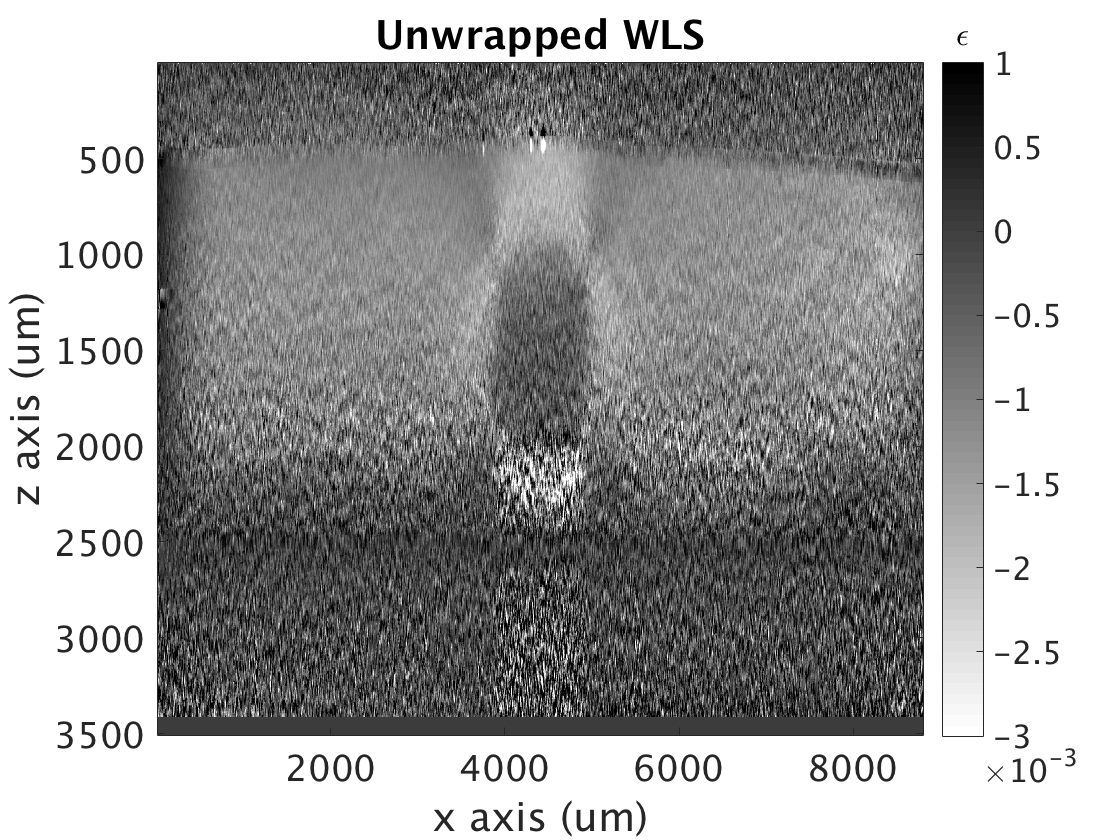
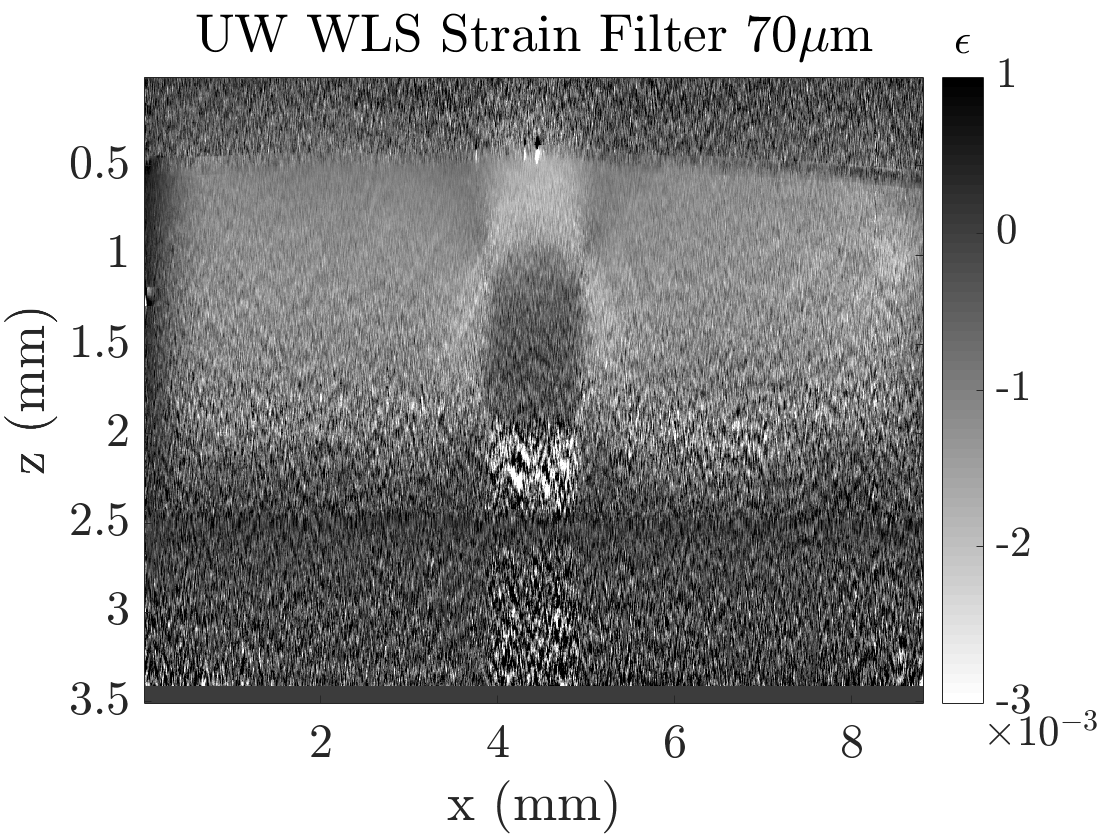
Split conclusion from discussion. Discussion needs work

diff --git a/Results.tex b/Results.tex
@@ -1,6 +1,5 @@
 \chapter{Results}\label{results}
 
-
 \section{Data Acquisition}\label{data}
 
 \begin{figure}
@@ -20,7 +19,7 @@
 
 To better quantify the image quality, an idealised silicone sample was imaged, to approximate breast tissue, and the strain estimated. This phantom consisted of a bulk, softer silicone material (with a Young's modulus of 6.4kPa) within which was a stiff, rectangular inclusion (Young's modulus of 100kPa) \cite{hepburn_improving_2017}, to which optical scatterers were added to enhance the \ac{oct} signal. The phantom was created by a previous Master's student, and was imaged using a desktop \ac{oce} system, with a system wavelength of $1300nm$. The imaged area, shown in \autoref{oct_image}, was divided into 2000 A-scans per each B-scan, over a length in x of $4.4\mu m$), and a total of 6817 B-scans were acquired, over the same length in y.
 
-The complex \ac{oct} C-scan was initially processed from the raw spectral data produced by the Fourier-domain \ac{oct} system, to produce the complex \ac{oct} signal values, with associated optical amplitudes and random phase. From here, as described briefly in \autoref{compression_oce}, the difference in phase is calculated between loaded and unloaded B-scans, and averaged over 100 B-scans. The strain estimation algorithms described following utilise this calculated averaged phase difference as the beginning step of the processing pipeline, and assume that the phase difference data is already loaded into memory.
+The complex \ac{oct} C-scan was initially processed from the raw spectral data produced by the Fourier-domain \ac{oct} system, to produce the complex \ac{oct} signal values, with associated optical amplitudes and random phase. From here, as described briefly in \autoref{compression_oce}, the difference in phase is calculated between loaded and unloaded B-scans, and averaged over 50 B-scan pairs. The strain estimation algorithms described following utilise this calculated averaged phase difference as the beginning step of the processing pipeline, and assume that the phase difference data is already loaded into memory.
 
 \section{Strain Estimation Algorithms}\label{algorithms}
 
@@ -29,12 +28,11 @@ A total of six different strain estimation algorithms were implemented and teste
 The functions worked by using the complex phase difference C-scan as an input, as well as the specifications for the fit (axial) and lateral resolutions of the system. The fit resolution of the system determined the fit window for the \ac{wls} and \ac{sg} based strain estimation techniques, and the axial Gaussian $\sigma$ value for the \ac{fd} based techniques. The lateral resolution determined to what extent the strain images were laterally averaged by a Gaussian smoothing filter (for reasons discussed in the later section 4.3). If a lateral resolution of 0 was specified, no lateral smoothing was performed. 
 
 \subsection{\ac{wls} with Unwrapped Phase}
-The \ac{uwwls} algorithm unwraps the phase by reading in the entire volume and saves the unwrapped phase data to file. In a sequential loop over each B-scan, wrapped in a Matlab parfor parallel, the process reads in the complex phase and unwrapped phase for each B-scan. If lateral smoothing has been specified, it smooths the unwrapped phase using unweighted Gaussian smoothing by convoluting the unwrapped phase with the 1D lateral filter. A sequential looping is then performed over each A-scan and all fit segments within the given B-scan, which calculates the \ac{wls} estimate of strain using summations and the weights from the complex phase data.
+The \ac{uwwls} algorithm unwraps the phase by reading in the entire volume and saves the unwrapped phase data to file. In a sequential loop over each B-scan the process reads in the complex phase and unwrapped phase for each B-scan. If lateral smoothing has been specified, it smooths the unwrapped phase using unweighted Gaussian smoothing by convoluting the unwrapped phase with the 1D lateral filter. A sequential looping is then performed over each A-scan and all fit segments within the given B-scan, which calculates the \ac{wls} estimate of strain using summations and the weights from the complex phase data.
 
-\subsection{\ac{sg} Filtering on Unwrapped Phase}
-The \ac{uwsg} unwraps the phase by the same process specified above, which requires a read from file of the unwrapped phase for each B-scan. If lateral smoothing required, the unwrapped phase is similarly smoothed via convolution with an unweighted Gaussian smoothing filter. To estimate the strain, this smoothed unwrapped phase data is convolved with the analytically derived \ac{sg} filter in a single action of the entire B-scan.
+\afterpage{
 
-\begin{figure}[th!]
+\begin{figure}[h!]
 \begin{tikzpicture}[node distance=2cm, remember picture]
 	\centering
 	\node [anchor=north] at (0,0) (input) [io] {INPUT: $\Delta\phi_i$};
@@ -131,8 +129,14 @@ The \ac{uwsg} unwraps the phase by the same process specified above, which requi
 \label{flowchart}
 \end{figure}
 
+\clearpage
+}
+
+\subsection{\ac{sg} Filtering on Unwrapped Phase}
+The \ac{uwsg} unwraps the phase by the same process specified above, which requires a read from file of the unwrapped phase for each B-scan. If lateral smoothing required, the unwrapped phase is similarly smoothed via convolution with an unweighted Gaussian smoothing filter. To estimate the strain, this smoothed unwrapped phase data is convolved with the analytically derived \ac{sg} filter in a single action of the entire B-scan.
+   
 \subsection{\ac{sg} Filtering on Offset Phase}
-In order to correct for phase unwrapping, the \ac{posg} function reads in the complex phase for each B-scan (in a parallel Matlab parfor loop) and loops over all fit segments within the B-scan, taking a matrix of values across all A-scans for the given depths. Using Matlab's inbuilt bsxfun operator, an averaged complex phase value for each fit segment is calculated and divided (corresponding to subtraction of the phase) to move the phase values into an unwrapped region. The \ac{sg} filter, which was pre-calculated using the analytical solution, is then convolved with the matrix in the axial direction to produce the strain estimation values at that given depth. 
+In order to correct for phase unwrapping, the \ac{posg} function reads in the complex phase for each B-scan and loops over all fit segments within the B-scan, taking a matrix of values across all A-scans for the given depths. An averaged complex phase value for each fit segment is calculated and divided (corresponding to subtraction of the phase) to move the phase values into an unwrapped region. The \ac{sg} filter, which was pre-calculated using the analytical solution, is then convolved with the matrix in the axial direction to produce the strain estimation values at that given depth. 
 
 \subsection{\ac{fd} on Weighted Smoothing of Phase Difference}
 The \ac{wfd} smooths complex weighted phase difference that acts as the function's input using an axial Gaussian filter dependent on the fit resolution supplied (and a lateral filter if specified). For strain estimation, \ac{fd} is performed using bsxfun on the complex phase data (in order to prevent the introduction of  wrapping artefacts), by dividing one pixel by the conjugate of the previous pixel in order to subtract the phase values. This estimate of the spatial derivative of the phase difference is then converted into strain values.
@@ -141,44 +145,55 @@ The \ac{wfd} smooths complex weighted phase difference that acts as the function
 This \ac{uwfd} algorithm works almost identically to the one described in the previous section, except that prior to using a Gaussian smoothing filter on the complex phase data, the amplitude is normalised to 1 for all phase difference values, effectively removing the optical weighting that comes from the OCT signal. From here the \ac{fd} is calculated, and from this the strain. 
 
 \subsection{Pre-Filtered Phase Difference with Smoothed \ac{fd} Strain}
-The \ac{pffd} algorithm was implemented as an effort to remove 'ripples' introduced by high intensity pixels in the finite difference with weighted smoothing, which will be discussed later in the results (see \autoref{qualitative1}). Using the weighted complex phase difference data, a small 2D Gaussian filter is applied to smooth out high intensity 'speckle' pixels. This pre-filter is set at $20 \mu m$ resolution, approximately on the order of the speckle size. This action aims to counter the disproportionate influence of high intensity pixels. From here, the strain is estimated using \ac{fd}, and the resulting strain is smoothed using a 2D Gaussian filter to match the required strain and lateral smoothing filter resolution values. Since the pre-filter contributes to the fit and lateral resolutions, for any given fit resolution $\text{FR}_{total}$ and lateral resolution $\text{LR}_{total}$ supplied to the function as input parameters, the resulting Gaussian smoothing resolutions must take into account the contribution from the pre-filter as in \autoref{prefilter_res_FR} and \autoref{prefilter_res_LR} below.
+
+The \ac{pffd} algorithm was implemented as an effort to remove artefacts introduced by high intensity variable pixels in the \ac{wfd}. Using the weighted complex phase difference data, a small 2D Gaussian filter is applied to smooth out high intensity `speckle' pixels. This pre-filter is set at $20 \mu m$ resolution, approximately on the order of a few speckle. 
+This action aims to counter the disproportionate influence of high intensity pixels over their neighbouring pixels, biasing the phase difference values towards them in the Kasai estimate. 
+From here, the strain is estimated using \ac{fd}, and the resulting real strain is smoothed using a 2D Gaussian filter to match the required strain and lateral smoothing filter resolution values. 
+
+The difference between this approach and the previous two \ac{fd} strain filter algorithms is the combination of a small, weighted smoothing filter to perform one operation (smooth out speckle) followed by the unweighted smoothing filter that compliments the derivative estimator.
+
+Since the pre-filter contributes to the fit and lateral resolutions, for any given fit resolution $\text{FR}_{total}$ and lateral resolution $\text{LR}_{total}$ supplied to the function as input parameters, the resulting Gaussian smoothing resolutions must take into account the contribution from the pre-filter:
 
 \begin{equation}
-	\text{FR}_{Gauss} = \sqrt{\text{FR}_{total}^2 - \text{FR}_{pre}^2}
+	\text{Res}_{Gauss} = \sqrt{\text{Res}_{total}^2 - \text{Res}_{pre}^2}
     \label{prefilter_res_FR}
 \end{equation}
 
-\begin{equation}
-    \text{LR}_{Gauss} = \sqrt{\text{LR}_{total}^2 - \text{LR}_{pre}^2}
-    \label{prefilter_res_LR}
-\end{equation}
+%\begin{equation}
+%	\text{FR}_{Gauss} = \sqrt{\text{FR}_{total}^2 - \text{FR}_{pre}^2}
+%    \label{prefilter_res_FR}
+%\end{equation}
 
-In order to maintain consistency between the strain estimation techniques, for the case in which no lateral smoothing is applied for any other algorithms, the pre-filter becomes 1D Gaussian smoothing filter only, so that $\text{LR}_{pre}\rightarrow 0$. 
+%\begin{equation}
+%    \text{LR}_{Gauss} = \sqrt{\text{LR}_{total}^2 - \text{LR}_{pre}^2}
+%    \label{prefilter_res_LR}
+%\end{equation}
 
-The table below, \autoref{strain_methods}, summarises the six strain estimation techniques that have been developed, including the method with which they address the issue of phase unwrapping, and the strain filter they apply.
+In order to maintain consistency between the strain estimation techniques, for the case in which no lateral smoothing is applied for any other algorithms, the pre-filter becomes 1D Gaussian smoothing filter only.
 
-\begin{table}[h!]
+\autoref{strain_methods} summarises the six strain estimation techniques that have been developed, including the method with which they address the issue of phase unwrapping, and the strain filter they apply.
+
+\begin{table}[h]
 	\centering
 	\begin{tabularx}{\textwidth}{YlYY}
 		\toprule
 		Name & Abbreviation & Phase Unwrapping & Strain Filter \\
 		\midrule
-		\ac{wls} with Unwrapped Phase & \ac{uwwls} & Volume unwrapping algorithm & Sequential WLS \\
-		\ac{sg} Filtering on Unwrapped Phase & \ac{uwsg} & Volume unwrapping algorithm & SG filter convolution \\
-		\ac{sg} Filtering on Offset Phase & \ac{posg} & Phase offset & Sequential SG filter convolution \\
-		\ac{fd} on Weighted Smoothing of Phase & \ac{wfd} & None & FD with (weighted) Gaussian smoothing \\
-		\ac{fd} on Unweighted Smoothing of Phase & \ac{uwfd} & None & FD with (unweighted) Gaussian smoothing \\
-		Pre-Filtered Phase with Smoothed \ac{fd} & \ac{pffd} & None & FD with (weighted then unweighted) Gaussian smoothing \\
+		\ac{wls} with Unwrapped Phase & \ac{uwwls} & Volume unwrapping & \ac{wls} \\
+		\ac{sg} Filtering on Unwrapped Phase & \ac{uwsg} & Volume unwrapping & \ac{sg} filter \\
+		\ac{sg} Filtering on Offset Phase & \ac{posg} & Phase offset & \ac{sg} filter \\
+		\ac{fd} on Weighted Smoothing of Phase & \ac{wfd} & None & \ac{fd} with (weighted) Gaussian smoothing \\
+		\ac{fd} on Unweighted Smoothing of Phase & \ac{uwfd} & None & \ac{fd} with (unweighted) Gaussian smoothing \\
+		Pre-Filtered Phase with Smoothed \ac{fd} & \ac{pffd} & None & Pre-filtering \& smoothing of \ac{fd} \\
 		\bottomrule
 	\end{tabularx}
 	\caption{Description of the six strain estimation techniques investigated, including their abbreviation, and their method of tackling a) phase unwrapping and b) strain filtering.}
 	\label{strain_methods}
-
 \end{table}
 
 \section{Phantom Strain Elastogram Results}\label{phantom_results}
 
-\subsection{Qualitative Comparison}{qualitative1}
+\subsection{Qualitative Comparison}\label{qualitative1}
 
 \begin{figure}[b!]
 	\centering
@@ -208,16 +223,17 @@ The table below, \autoref{strain_methods}, summarises the six strain estimation 
     	\centering
         \includegraphics[width=\textwidth]{figures/fdsm_fr70_lr0.png}
     \end{subfigure}
-    \caption{Strain B-scans taken from the centre of the phantom for the six strain estimation techniques discussed above. The strain values shown are windowed between -3 and 1 milli-strain.}
+	\caption{Strain B-scans taken from the centre of the phantom for the six strain estimation techniques discussed above, using a strain filter \ac{fwhm} of 70$\mu$m. The strain values shown are windowed between -3 and 1 milli-strain.}
     \label{bscan_images_1}	
 \end{figure}
 
-\autoref{bscan_images_1} shows the resulting B-scan strain images, taken from the centre of the phantom, for the six different strain estimation techniques described above. Note that negative strain corresponds to compressive force, that is a displacement downwards. The fact that there exist positive strain values suggests that our assumption of uniaxial compression is invalid, as stiffer regions are pushing the softer bulk laterally and upwards. It can seen in all images that the stiff inclusion shows less strain than the softer surrounding bulk, as expected. There are similar 'halo' effects, caused by the stiff inclusion taking more of the compressive force than the soft bulk immediately next to it, in all images. The area under the hard inclusion is characterised by low \ac{oct} signal, as can be seen in \autoref{oct_image}, and is the most prominently noisy in the techniques that utilise a phase unwrapping algorithm over the entire volume, which is highly sensitive to strong fluctuations in \ac{oct} signal and as a result creates artefacts in these regions. A similar pattern is seen in this region in the weighted and unweighted smoothing of \ac{fd} strain, and is very significant in the pre-filter \ac{fd} image, which has in addition further streaks of strain estimation arguments at the bottom of the image. 
+\autoref{bscan_images_1} shows the resulting B-scan strain images, taken from the centre of the phantom, for the six different strain estimation techniques described above. Note that negative strain corresponds to compressive force. The fact that there exist positive strain values suggests that our assumption of uniaxial compression is invalid, as stiffer regions are pushing the softer bulk laterally and upwards. Alternatively, our assumption that the $OCT_{\ac{snr}}<1$ in these regions.
 
-As mentioned before, the pre-filter \ac{fd} with smoothed strain algorithm was introduced after noticing significant 'ripple' effects in the weighted smoothing of \ac{fd} algorithm. These can be seen prominently to the top right of the inclusion, and match with features in the \ac{oct} image in \autoref{oct_image}. In addition to this, the surface of the sample, which has a high reflectance and therefore strong optical weighting, is a  prominent artefact in the weighted smoothing \ac{fd} image. The application of a small pre-filter to this prior to smoothing appears to have removed this issue, as well as slightly decreased the impact of the optical features at the top right, however at the expense of introducing a multitude of streak artefacts into the bottom half of the image in areas of low \ac{oct} signal.
+It can seen in all images that the stiff inclusion shows less strain than the softer surrounding bulk, as expected. There are similar 'halo' effects, caused by the stiff inclusion taking more of the compressive force than the soft bulk immediately next to it, in all images. The area under the hard inclusion is characterised by low \ac{oct} signal, as can be seen in \autoref{oct_image}, and is the most prominently noisy in the techniques that utilise a phase unwrapping algorithm over the entire volume, which is highly sensitive to strong fluctuations in \ac{oct} signal and as a result creates artefacts in these regions. A similar pattern is seen in this region in the weighted and unweighted smoothing of \ac{fd} strain, and is very significant in the pre-filter \ac{fd} image, which has in addition further streaks of strain estimation arguments at the bottom of the image. 
+
+As mentioned before, the pre-filter \ac{fd} with smoothed strain algorithm was introduced after noticing significant `ripple ' effects in the weighted smoothing of \ac{fd} algorithm. These can be seen prominently to the top right of the inclusion, and match with features in the \ac{oct} image in \autoref{oct_image}. In addition to this, the surface of the sample, which has a high reflectance and therefore strong optical weighting, is a  prominent artefact in the weighted smoothing \ac{fd} image. The application of a small pre-filter to this prior to smoothing appears to have removed this issue, as well as slightly decreased the impact of the optical features at the top right, however at the expense of introducing a multitude of streak artefacts into the bottom half of the image in areas of low \ac{oct} signal.
 
 \subsection{Processing Time}
-
 
 \begin{figure}[b!]
 	\centering
@@ -233,9 +249,9 @@ As mentioned before, the pre-filter \ac{fd} with smoothed strain algorithm was i
     \label{process_time_1}
 \end{figure}
 
-\autoref{process_time_1} shows the relative processing time for the different strain estimation techniques for both a single B-scan and an entire 3D C-scan, at different fit resolutions. Note that in order to compare accurately between the 2D B-scan and C-scan, a 2D unwrapping algorithm was implemented instead of the usual 3D that laterally unwraps as well. Each data point corresponds to an average of 50 processing time measurements. The error bars in the plot are the standard deviations of these 50 measurements. Since this is plotted relatively, the standard deviation of the relative measurement is equal to the addition of the standard deviations of the absolute measurement and the baseline (WLS) measurement.
+\autoref{process_time_1} shows the relative processing time for the different strain estimation techniques for both a single B-scan and an entire 3D C-scan, at different strain filter sizes. Note that in order to compare accurately between the 2D B-scan and C-scan, a 2D unwrapping algorithm was implemented instead of the usual 3D that laterally unwraps as well. Each data point corresponds to an average of 50 processing time measurements. The error bars in the plot are the standard deviations of these 50 measurements. Since this is plotted relatively, the standard deviation of the relative measurement is equal to the addition of the standard deviations of the absolute measurement and the baseline (WLS) measurement.
 
-The relative processing time (with respect to the \ac{wls} with unwrapped phase) is shown instead of the actual, to try provide an estimate that is comparable across different machines.
+The relative processing time (with respect to \ac{uwwls}) is shown instead of the actual, to try provide an estimate that is comparable across different machines.
 
 It can be seen that all new strain estimation techniques show a significant improvement in processing speed compared to the \ac{wls} estimate. In particularly, the finite difference techniques are particularly fast. The \ac{sg} filter on the unwrapped phase is faster than when applied to the phase offset, suggesting that the bottleneck caused by the non-linear subtraction operation contributes more to slowing the process down than needing to perform unwrapping on the entire volume. 
 
@@ -255,7 +271,7 @@ It can be seen that all new strain estimation techniques show a significant impr
 	\label{sensitivity_1}
 \end{figure}
 
-The strain sensitivity for the six different estimation techniques for different fit resolutions is shown in \autoref{sensitivity_1}. There is a clear trend across all techniques, that at the larger fit resolutions the sensitivity is better. The downside of this is that at larger fit resolutions, the ability to distinguish objects laterally is significantly worsened, as can be seen in strain B-scan images in \autoref{strain_bscan_images}. Therefore there is a need to optimise the trade off between sensitivity and fit resolution. The three techniques that offer the best sensitivity at lower fit resolutions are \ac{wls}, unweighted smoothing with \ac{fd}, and the pre-filtered \ac{fd}. Note that the weighted smoothing with \ac{fd} is significantly worse than the other techniques, due to the artefacts discussed above. The phase offset and unwrapping with \ac{sg} filtering are slightly worse than the \ac{wls} estimate, likely due to them being an ordinary least squares estimate, as opposed to a weighted one.
+The strain sensitivity for the six different estimation techniques for different strain filters is shown in \autoref{sensitivity_1}. There is a clear trend across all techniques, that at the larger fit resolutions the sensitivity is better. The downside of this is that at larger fit resolutions, the ability to distinguish objects is significantly worsened, as can be seen in strain B-scan images in \autoref{strain_bscan_images}. Therefore there is a need to optimise the trade off between sensitivity and fit resolution. The three techniques that offer the best sensitivity at lower fit resolutions are \ac{wls}, unweighted smoothing with \ac{fd}, and the pre-filtered \ac{fd}. Note that the weighted smoothing with \ac{fd} is significantly degraded compared to the other techniques, due to the artefacts discussed above. The phase offset and unwrapping with \ac{sg} filtering are slightly worse than the \ac{wls} estimate, likely due to them being an ordinary least squares estimate, as opposed to a weighted one.
 
 Although the pre-filtered \ac{fd} supposedly shows the best sensitivity, it is important to note the artefacts present in the qualitative evaluation of the image. Therefore this sensitivity measurement is not indicative of the image quality as a whole, but only a segment of it.
 
@@ -267,7 +283,7 @@ On the basis of these results, it was decided to see if implementing lateral ave
 It was found that very comparable image quality could be achieved using a smaller fit resolution of $40\mu m$ when lateral smoothing was also applied. \autoref{images} contains the B-scan  images for the different strain estimation techniques for selected strain and lateral smoothing filter resolution values. 
 
 \subsection{Processing Time}
-The benefit of adding lateral averaging is that it improves the sensitivity, and in most instances, without adding much time overhead, since it can be implemented as a 2D convolution on a given B-scan. Therefore the focus of this section is mostly on the image quality, rather than the processing time. However, \autoref{process_time_2} shows that adding lateral smoothing did not change the relative positions of the processing techniques in terms of processing time.
+The benefit of adding lateral averaging is that it improves the sensitivity, and in most instances, without adding much time overhead, since it can be implemented as a 2D convolution on a given B-scan in the convolution algorithms (however not the \ac{uwwls}). Therefore the focus of this section is mostly on the image quality, rather than the processing time. However, \autoref{process_time_2} shows that adding lateral smoothing did not change the relative positions of the processing techniques in terms of processing time.
 
 \begin{figure}[th!]
 	\centering
@@ -279,7 +295,7 @@ The benefit of adding lateral averaging is that it improves the sensitivity, and
     	\centering
         \includegraphics[width=\textwidth]{figures/3d_relative_lr.png}
     \end{subfigure}
-    \caption{Relative processing time for different strain estimation techniques at a fit resolution of $40\mu m$ and with different lateral smoothing resolutions for a) a single B-scan and b) an entire C-scan.}
+	\caption{Relative processing time for different strain estimation techniques at a fit resolution of $40\mu m$ and with different lateral smoothing resolutions for a single B-scan and an entire C-scan.}
     \label{process_time_2}
 \end{figure}
 
@@ -396,25 +412,6 @@ A goodness of fit limit was placed on the process of fitting an error function t
 \autoref{imageres_figs} show some interesting trends. The \ac{posg} algorithm performs the worst over both axial and lateral image resolution, although has some good lateral resolution for the mid-range strain filter \ac{fwhm}. The \ac{wfd} has a high lateral image \ac{fwhm} for any strain filter above approximately 40$\mu$m, however the axial resolution performs extremely well in comparison to other techniques. The \ac{uwwls} strain filter performs poorly for axial image resolution, however significantly better in the lateral resolution, which contrasts to the other technique utilising phase unwrapping, suggesting the problem arises in the strain filtering process. Both techniques that utilise \ac{sg} filtering have streak-like features in the lateral resolution at different strain filter \ac{fwhm} values, and are relatively high. Both the \ac{uwfd} and \ac{pffd} show the best overall image resolution, with very similar axial resolution patterns, that are better at low strain and lateral smoothing filter \ac{fwhm} values, as is expected. The \ac{pffd} however has slightly worse lateral resolution for higher strain and lateral smoothing filter \ac{fwhm}.
 
 Taking these results in conjunction with those regarding processing time and sensitivity in the sections above, it is decided that the \ac{uwfd} strain estimation algorithm provides optimal processing speed, sensitivity, and image resolution. In particular, using a strain filter \ac{fwhm} of 40$\mu$m and a lateral smoothing filter \ac{fwhm} of 20$\mu$m should provide the best axial and image resolution, in conjunction with high sensitivity. 
-
-\begin{table}
-	\begin{tabularx}{\textwidth}{Yrrc}
-		\toprule
-		& \textbf{\ac{uwwls}} & \textbf{\ac{uwfd}} & \textbf{Improved?}\\
-		\midrule 
-		Strain Filter FWHM ($\mu$m) & 70 & 40 \\
-		Lateral Smoothing Filter FWHM ($\mu$m) & 0 & 20 \\
-		\midrule
-		2D Processing Time (s) & & \\
-		3D Processing Time (s) & 153.67 & \\
-		Strain Sensitivity (m$\epsilon$) & 0.1607 & 0.1385 & 16\% \\
-		Axial Image Resolution FWHM ($\mu$m) & 315.87 & 258.37 & \textbf{20\%} \\
-		Lateral Image Resolution FWHM ($\mu$m) & 131.33 & 115.98 & 13\% \\
-		\bottomrule
-	\end{tabularx}
-	\caption{Comparison of the previously standard \ac{uwwls} strain estimation technique and the optimised \ac{uwfd}.}
-	\label{comparison_table}
-\end{table}
 
 \begin{figure}
 	\centering

diff --git a/Strain_Review.tex b/Strain_Review.tex
@@ -36,7 +36,7 @@ The variance of the measured phase difference is equal to the inverse of the \ac
 
 \begin{equation}
 	\label{wls_w}
-	w_i = \frac{1}{\sigma_{u_I}^2} = SNR_{OCT_I}
+	w_i = \frac{1}{\sigma_{u_i}^2} = SNR_{OCT_i}
 \end{equation}
 
 Using these weights, the strain estimate using \ac{wls} is given as in \cite{kennedy_strain_2012} by \autoref{wls_strain}:
@@ -112,12 +112,12 @@ Using a Gaussian smoothing filter in addition to the \ac{fd} derivative estimate
 
 Since linear filter operations are commutative, the filter convolution operation can be performed on the real phase difference or to the \ac{fd} strain estimate. Applying the filter to the estimated phase derivative does not require unwrapping of the phase, instead it assumes that the derivative estimate has taken this into account, providing more flexibility over \ac{ols} or \ac{wls} techniques.
 
-\section{\ac{fd}}\label{fd}
+\section{Finite Difference}\label{fd}
 
 The simplest approximation to a derivative is to calculate the \ac{fd} between two consecutive displacement measurements. That is, dividing the change in displacement by the change in depth. However this allows wrapping events as a result of using the real phase data. The calculation of strain from the phase difference is a linear operation (\autoref{phasedif_displacement}), therefore the \ac{fd} can be performed on the complex phase difference instead. Similarly to how the Kasai estimate was implemented to determine the phase difference between loaded and unloaded scans in \autoref{kasai_estimate}, this can be applied again to calculate the \ac{fd} derivative of the phase difference:
 
 \begin{equation}
-	\varepsilon_i = \frac{\lambda_0}{4\pi n} \cdot \frac{1}{\Delta z} \text{angle}\bigg( \Delta \phi_i \cdot \text(conj)(\Delta \phi_{i-1}) \bigg)
+	\varepsilon_i = \frac{\lambda_0}{4\pi n} \cdot \frac{1}{\Delta z} \text{angle}\bigg( \Delta \phi_i \cdot \text{conj}(\Delta \phi_{i-1}) \bigg)
 	\label{fd_strain}
 \end{equation}
 
@@ -130,7 +130,7 @@ Since there is no smoothing operation implemented in \ac{fd}, it is assumed that
 \section{Strain Estimation Assessment Criteria}\label{criteria}
 
 \subsection{Sensitivity}
-The strain sensitivity is defined as the minimum detectable strain in the elastogram \cite{kennedy_strain_2012}, a quantity that gives insight into how well the \ac{oce} imaging system and signal processing is capable of reproducing the physical displacement and strain in the imaged sample. If the strain sensitivity is too large, then it is not possible to detect differences between stiff and soft objects (such as stroma and tumour) without having a much larger compressive force, which invalids many assumptions previously made (such as the linear elasticity of tissue, and uniaxial compression). Therefore it is important to use the strain sensitivity as a metric of image quality. 
+The strain sensitivity is defined as the minimum detectable strain in the elastogram \cite{kennedy_strain_2012}, a quantity that gives insight into how well the \ac{oce} imaging system and signal processing is capable of reproducing the physical displacement and strain in the imaged sample. If the strain sensitivity is too large, then it is not possible to detect differences between stiff and soft objects (such as stroma and tumour) without having a much larger compressive force, which invalidates many assumptions previously made (such as the linear elasticity of tissue, and uniaxial compression). Therefore it is important to use the strain sensitivity as a metric of image quality. 
 
 The strain sensitivity is defined as the standard deviation of the strain values within a region of uniform elasticity \cite{varghese_theoretical_1997}, such as can be artificially created using a phantom. The ideal characteristics of the region include absence of artefacts, including those that occur near the sample surface reflection, and at a depth shallow enough to minimise the attenuation of the \ac{oct} signal and decorrelation noise. Such a region is shown in \autoref{sensitivity_region} for a silicon phantom with a stiff inclusion.
 
@@ -144,12 +144,12 @@ The strain sensitivity is defined as the standard deviation of the strain values
 		\centering
 		\includegraphics[width=\textwidth]{strainreview_figs/regions_zoomed.png}
 	\end{subfigure}
-	\caption{A uniform region within the sample used to measure strain sensitivity, and b) the same region at different fit resolutions.}
-	\label{sensivity_region}
+	\caption{A uniform region within a strain elastogram B-scan of a phantom used to measure strain sensitivity, and b) the same region at different fit resolutions. The sensitivity is the standard deviation within the regions, which is higher at lower fit resolutions (FR). The phantom shows high a stiff inclusion (higher strain) surrounded by a softer bulk.}
+	\label{sensitivity_region}
 \end{figure}
 
 \subsection{Image Resolution}
-The image resolution can be thought of as the ability to distinguish between two objects in the resulting strain elastogram. Traditionally, this has been examined in terms of the impulse response of an optical system, more directly as the \ac{fwhm} of this impulse response \cite{reynolds_resolution_1989}. However we typically don't have access to the impulse response of the combined strain estimation filter and optical system response, therefore another method of quantifying the image resolution is used based on a previous Masters project \cite{hepburn_improving_2017}.
+The image resolution can be thought of as the ability to distinguish between two objects in the resulting strain elastogram. Traditionally, this has been examined in terms of the impulse response of an optical system, more directly as the \ac{fwhm} of this impulse response \cite{reynolds_resolution_1989}. In order to measure the image resolution experimentally, a technique employed in a previous Masters project \cite{hepburn_improving_2017} was employed.
 
 \begin{figure}[t]
 	\centering
@@ -165,7 +165,7 @@ The image resolution can be thought of as the ability to distinguish between two
 	\label{axial_lateral_regions}	
 \end{figure}
 
-The image resolution is thought of as the 'speed' of transition from one uniform strain region to another, as measurable in a phantom sample which has clearly defined regions of different stiffness. This transition can be seen in both the axial and lateral directions, as shown in \autoref{axial_lateral_regions}.
+The image resolution is thought of as the `speed' of transition from one uniform strain region to another, as measurable in a phantom sample which has clearly defined regions of different stiffness. This transition can be seen in both the axial and lateral directions, as shown in \autoref{axial_lateral_regions}.
 
 \begin{figure}[t]
 	\centering
@@ -220,4 +220,5 @@ The \ac{fwhm} of this Gaussian is given in \autoref{image_res_fwhm} and provides
 
 \subsection{Processing Speed}
 The processing speed of the strain estimation technique is not a standard metric for assessing the strain elastogram quality, but keeping in mind the motivation for this project it is of utmost importance. To be able to produce strain elastograms in real-time, although Fourier-domain \ac{oct} combined with fast 3D scanning techniques allows for fast data acquisition, the estimation of strain can become a bottleneck in the process that degrades it's application to areas like surgical margin assessment.
-The processing speed of the different strain estimation algorithms was assessed using both the processing of a single B-scan, and for a complete 3D volume. In addition, differences in algorithm complexity are pointed out between the methods, as well as the ease with which they can be parallelised, and the likelihood of a speed up made possible by this parallelisation.
+
+The processing speed of the different strain estimation algorithms is assessed by timing the time taken for a single 2D B-scan to process (with 2000 A-scans per B-scan, and ~1000 pixels in depth) as well as for a 3D C-scan (~70 B-scans after spatial averaging). In addition, differences in algorithm complexity are pointed out between the methods, as well as the ease with which they can be parallelised, and the likelihood of a speed up made possible by this parallelisation.

diff --git a/Discussion.tex b/Discussion.tex
@@ -1,32 +1,42 @@
 \chapter{Discussion}
 
-%Due to the smart scanning patterns, phase-sensitive compression OCE systems are capable of scanning a 3D volume in under 2 seconds. From here, the raw spectral data is 
-
-All five new strain estimation techniques implemented showed significant speed up, on the order of $10-20\times$ the processing speed of the \ac{uwwls} that has been the current standard in the research lab. This alone is enough to consider these techniques in the case of real-time surgery applications. However it was discovered that most of the investigated techniques showed improvements in strain sensitivity and image resolution as well.
-
-\section{Optimal Processing Algorithm}
+\begin{itemize}
+\item \ac{uwwls}
+\item \ac{uwsg}
+\item \ac{posg}
+\item \ac{wfd}
+\item \ac{uwfd}
+\item \ac{pffd}
+\end{itemize}
 
 The optimal strain estimation technique in this context appears to be the \ac{uwfd} algorithm, applied with lateral averaging. At a fit resolution of $40\mu m$ and a lateral smoothing resolution of $40\mu m$, all image quality parameters are improved in comparison with the previously standard \ac{uwwls} approach (\autoref{comparison_table}).
 
-\section{Further Computational Speed Ups}
+\begin{table}[h]
+	\begin{tabularx}{\textwidth}{Yrrc}
+		\toprule
+		& \textbf{\ac{uwwls}} & \textbf{\ac{uwfd}} & \textbf{Improved?}\\
+		\midrule 
+		Strain Filter FWHM ($\mu$m) & 70 & 40 \\
+		Lateral Smoothing Filter FWHM ($\mu$m) & 0 & 20 \\
+		\midrule
+		2D Processing Time (s) & & \\
+		3D Processing Time (s) & 153.67 & \\
+		Strain Sensitivity (m$\epsilon$) & 0.1607 & 0.1385 & 16\% \\
+		Axial Image Resolution FWHM ($\mu$m) & 315.87 & 258.37 & \textbf{20\%} \\
+		Lateral Image Resolution FWHM ($\mu$m) & 131.33 & 115.98 & 13\% \\
+		\bottomrule
+	\end{tabularx}
+	\caption{Comparison of the previously standard \ac{uwwls} strain estimation technique and the optimised \ac{uwfd}.}
+	\label{comparison_table}
+\end{table}
 
-It has beeen shown that \ac{gpu}s can greatly accelerate the processing of strain imaging for techniques such as ultrasound elastography that utilise speckle-tracking (rather than phase-sensitive measurement) \cite{peng_gpu-accelerated_2017}, therefore there is reason to believe this could also benefit in the phase-sensitive \ac{oce} case. Of particular benefit is the fact that all four strain estimation techniques that do not involve the volume phase unwrapping algorithm, are able to process individual B-scans completely independently, making it very likely that introducing parallel processing to these methods would significantly speed up the computation time. Applying filter convolutions (as in \ac{sg} filtering, and Gaussian smoothing in the \ac{fd} case) in parallel and on \ac{gpu}s could further improve the processing speed, towards real-time, even video-rate imaging.
-Before these possibilities are investigated however, the algorithms will likely need to be moved out of the Matlab interface, and applied in another language more easily workable with parallelisation, such as C++.
+\section{Future Work}
 
-%\begin{itemize}
-%\item Parallel capabilities of independent looping operations (e.g. any without lateral unwrapping)
-%\item Convolution on GPUs (need to develop a matlab interface)
-%\end{itemize}
+It has been discovered that \ac{gpu}s can greatly accelerate the processing of strain imaging for techniques such as ultrasound elastography that utilise speckle-tracking (rather than phase-sensitive measurement) \cite{peng_gpu-accelerated_2017}, therefore there is reason to believe this could also benefit in the phase-sensitive \ac{oce} case. Of particular benefit is the fact that all four strain estimation techniques that do not involve the volume phase unwrapping algorithm, are capable of processing individual B-scans completely independently, making it very likely that introducing parallel processing to these methods would significantly decrease the computation time. Applying filter convolutions (as in \ac{sg} filtering, and Gaussian smoothing in the \ac{fd} case) in parallel and on \ac{gpu}s could further improve the processing speed, towards intra-operative time frames, and even video-rate imaging.
 
-\section{Conclusion}
+Before these possibilities are investigated however, the algorithms will likely need to be moved out of the Matlab interface, and applied in another language more suited to fast numerical processing.
 
-In summary, this work investigated six different strain estimation techniques, characterised by their phase unwrapping methodology and strain differentiation filters, and implemented them on a silicon phantom. The processing speed in 2D and 3D has been evaluated, as well as their resulting strain sensitivity and image resolution, both with and without additional lateral averaging applied. It was decided that the strain estimation algorithm utilising unweighted, axial Gaussian smoothing of the phase difference followed by a FD strain approximation, and with unweighted lateral Gaussian smoothing, best optimised all processing and image parameters, in particular, when a fit resolution of $\mu m$ and a lateral resolution of $\mu m$ were used.
+Further work also must be done in translating this strain estimation algorithm into the clinic, by analysing its performance on a range of breast tissue samples. In particular, before being able to apply this technique to assess cancer margins during breast conserving surgery, diagnostic specificity and sensitivity (the ability to accurately differentiate healthy tissue from tumour) of the technique must be analysed using large case studies.
 
-Further work must be done in translating this strain estimation algorithm into the clinic, by analysing its performance on a range of breast tissue samples. In particular, before being able to apply this technique to assess cancer margins during breast conserving surgery, diagnostic specificity and sensitivity (in this instance, the ability to differentiate healthy tissue from tumour) of the technique must be analysed using large case studies. Further research also could be done in applying these strain estimation techniques to quantitative elastography imaging, to determine which one is optimal.
+In conjunction with this, research also could be done in applying these strain estimation techniques to quantitative elastography imaging, to determine which one is optimal. Measurement of a stress using a stress layer is relatively fast, and most of the computational burden falls on the strain estimation, therefore strain estimators that optimise the processing speed would benefit in this area also. 
 
-
-%\begin{itemize}
-%\item Specificity and sensitivity of diagnosis in breast tissue
-%\item Quantitative measurements of elasticity
-%\item Maintaining image quality with removal of B-scan averaging to decrease acquisition time
-%\end{itemize}

diff --git a/Conclusion.tex b/Conclusion.tex
@@ -1,0 +1,8 @@
+\chapter{Conclusion}
+
+The goal of this work was to implement and assess six different strain estimation techniques. Five of these were compared against the first, which represented the current phase-sensitive compression \ac{oce} processing algorithm used by \ac{britelab}. The main motivation in assessing these strain estimators is towards finding an optimum implementation for intra-operative surgical margin assessment in breast conserving surgery. 
+
+To use compression \ac{oce} in an intra-operative time frame, rapid strain processing technique must be developed, capable of scanning entire volumes in under 5 seconds. In addition, such methods must maintain image quality in the form of high strain sensitivity and image resolution. 
+
+All five new strain estimation techniques implemented showed significant comparative speed up, on the order of $20-50\times$ the processing speed of the \ac{uwwls} that has been the current standard in the research lab. It was discovered that most of the investigated techniques showed improvements in strain sensitivity and image resolution as well, in particular when additional lateral averaging was applied. 
+

diff --git a/Acknowledgments.tex b/Acknowledgments.tex
@@ -18,4 +18,4 @@ To Matt Hepburn, for his previous work on strain estimation techniques and image
 
 To the \ac{britelab} research group at Harry Perkins, for being such a welcoming community. 
 
-Lastly to the staff at the School of Physics UWA, in particular Ian McArthur and Darren Grasso, for their continued support throughout my undergraduate degree, as well as the enthusiasm they have inspired in their students for the broad range of areas on which physics can shed light.
+Lastly to the staff at the School of Physics UWA, in particular Ian McArthur and Darren Grasso, for their continued support throughout my undergraduate degree. 

diff --git a/thesis.tex b/thesis.tex
@@ -27,6 +27,7 @@
 \usepackage{booktabs,tabularx,array}
 \newcolumntype{Y}{>{\raggedright\arraybackslash}X} 
 \usepackage[single=true,macros=true,xspace=true]{acro}
+\usepackage{afterpage}
 
 % Reset all acronyms at the start of the chapter
 \usepackage{etoolbox}
@@ -151,6 +152,7 @@
 \include{Strain_Review}         
 \include{Results}
 \include{Discussion}
+\include{Conclusion}
 
 %\newpage
 %---------------------------------------------------------
